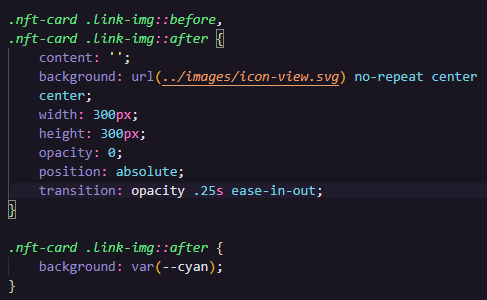
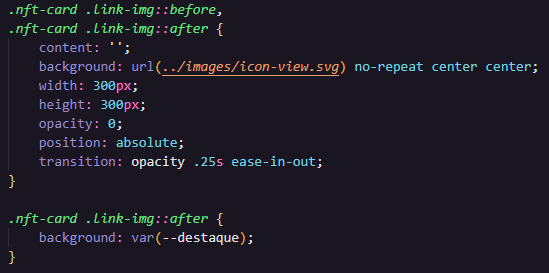
últimos ajustes

diff --git a/src/css/styles.css b/src/css/styles.css
@@ -33,7 +33,7 @@ main {
 }
 
 .nft-card .link-img::after {
-    background: var(--cyan);
+    background: var(--destaque);
 }
 
 .nft-card .link-img:hover::before{
@@ -51,11 +51,11 @@ main {
 }
 
 .nft-card a {
-    color: var(--white);
+    color: #fff;
 }
 
 .nft-card a:hover {
-    color: var(--cyan);
+    color: var(--destaque);
 }
 
 .nft-card .title {
@@ -65,7 +65,7 @@ main {
 }
 
 .nft-card .about {
-    color: var(--soft-blue);
+    color: var(--neutral);
     line-height: 25px;
     margin-bottom: 24px;
 }
@@ -81,7 +81,7 @@ main {
 
 .nft-card .info .value,
 .nft-card .info .days-left {
-    color: var(--cyan);
+    color: var(--destaque);
     display: flex;
     align-items: center;
     font-size: 16px;
@@ -103,7 +103,7 @@ main {
 }
 
 .nft-card .info .days-left {
-    color: var(--soft-blue);
+    color: var(--neutral);
 }
 
 .nft-card .info .days-left::before {
@@ -124,11 +124,11 @@ main {
 .nft-card .creator img.avatar{
     width: 35px;
     height: 35px;
-    border: 1px solid var(--white);
+    border: 1px solid #fff;
     border-radius: 40px;
     margin-right: 14px;
 }
 
 .nft-card .creator p{
-    color: var(--soft-blue);
+    color: var(--neutral);
 }

diff --git a/src/css/variables.css b/src/css/variables.css
@@ -1,8 +1,7 @@
 :root {
-    --soft-blue: hsl(215, 51%, 70%);
-    --cyan: hsl(178, 100%, 50%);
+    --neutral: hsl(215, 51%, 70%);
+    --destaque: hsl(178, 100%, 50%);
     --main-bg: hsl(217, 54%, 11%);
     --card-bg: hsl(216, 50%, 16%);
     --color-line: hsl(215, 32%, 27%);
-    --white: hsl(0, 0%, 100%);
 }

diff --git a/readme.md b/readme.md
@@ -2,8 +2,7 @@
 
 ![projeto pronto](./src/design/desktop-design.jpg)
 
-Fiz este desafio, disponibilizado no Front-end Mentor
-My favorite search engine is [Front-end Mentor](https://www.frontendmentor.io/home).
+Fiz este desafio, disponibilizado no Front-end Mentor.
 
 ----
 
